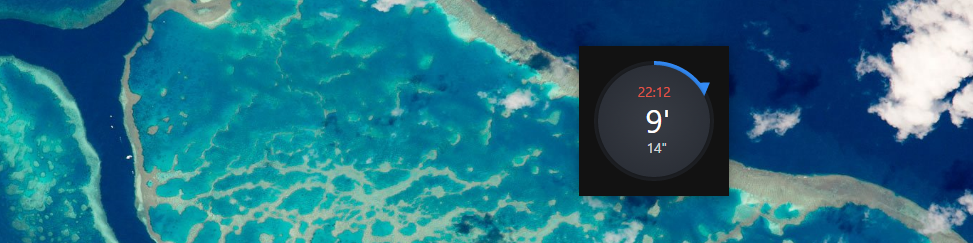
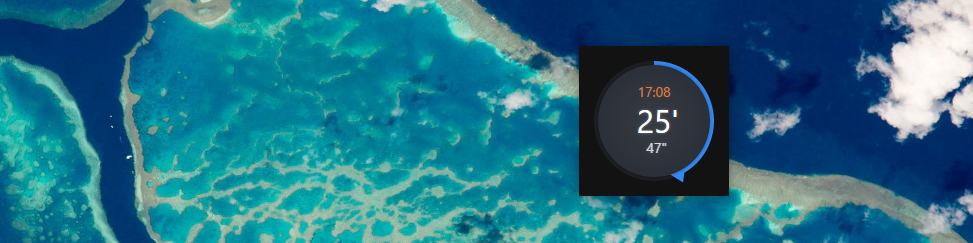
Update time text color

Changed region(s): [[0.6475, 0.3457, 0.74, 0.6914], [0.6783, 0.6914, 0.7091, 0.749], [0.6475, 0.5761, 0.6783, 0.6337]]

diff --git a/browser/style.css b/browser/style.css
@@ -166,7 +166,7 @@ header {
         line-height: 1.1;
     }
     .timer-display .time {
-        color: #E05848;
+        color: rgb(209, 129, 70);
     }
     .timer-display .seconds {
         opacity: .8;
@@ -189,6 +189,6 @@ header {
 
 @keyframes glowing-red-text {
     0% {text-shadow: none;}
-    50% {text-shadow: 0 0 5px rgba(224, 88, 72, .3);}
+    50% {text-shadow: 0 0 5px rgba(209, 129, 70, .3);}
     100% {text-shadow: none;}
 }
